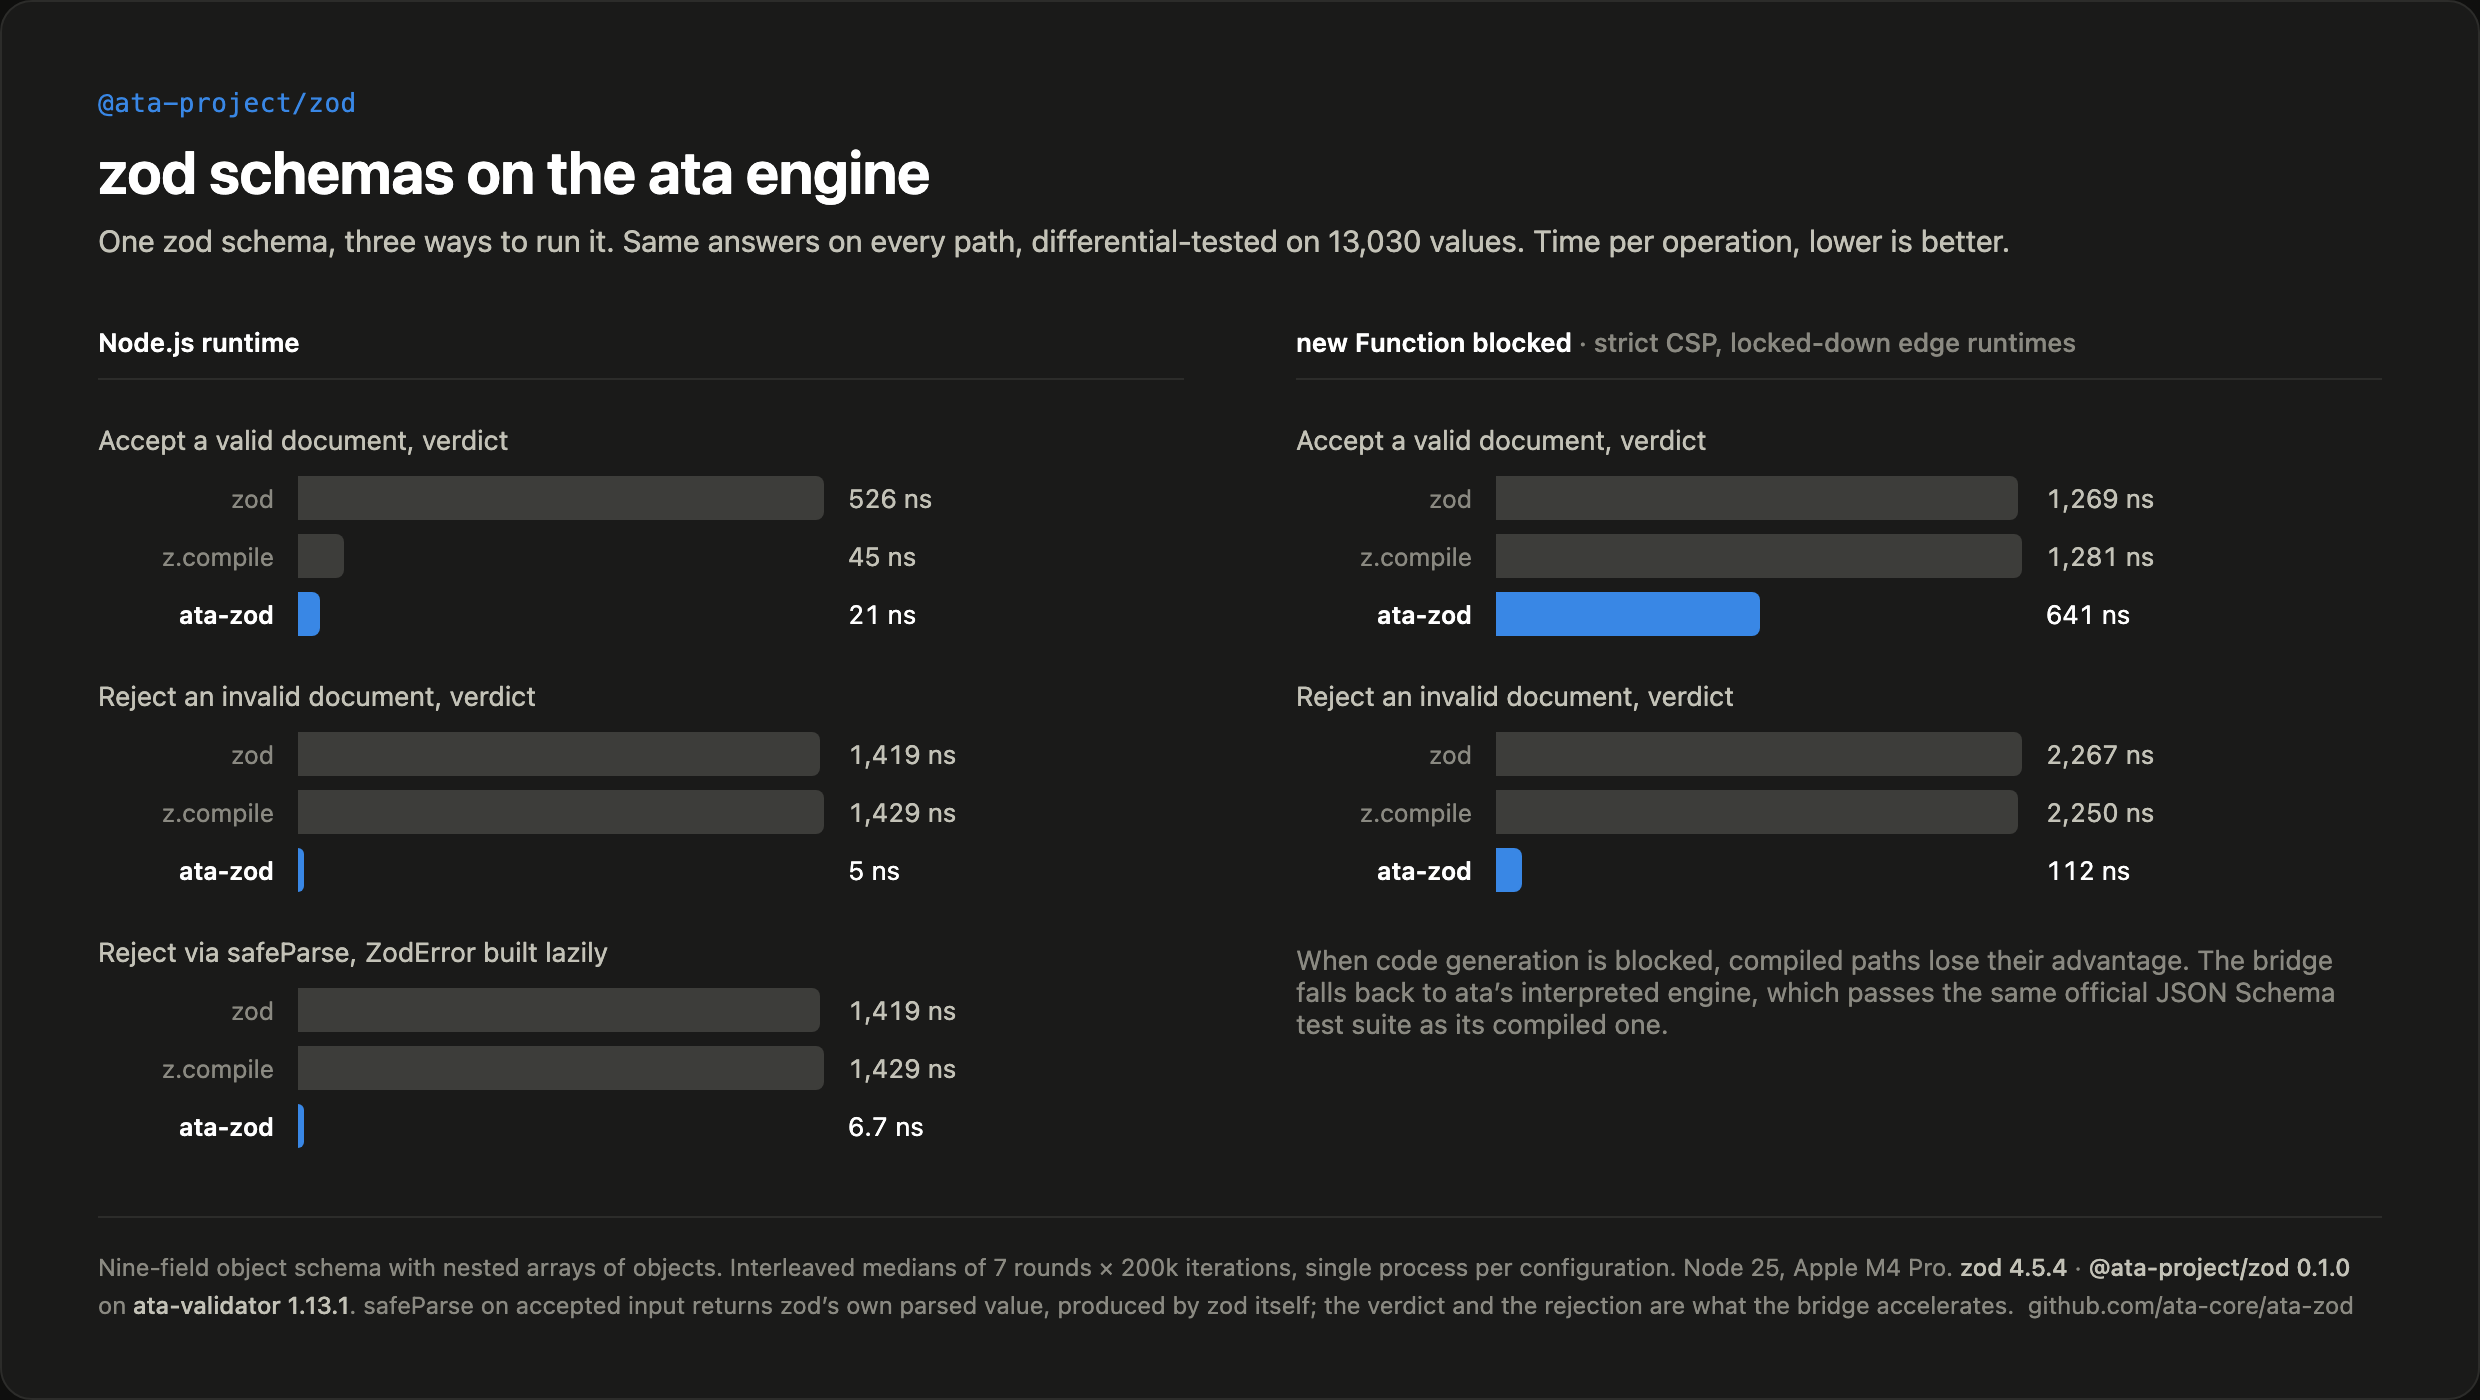
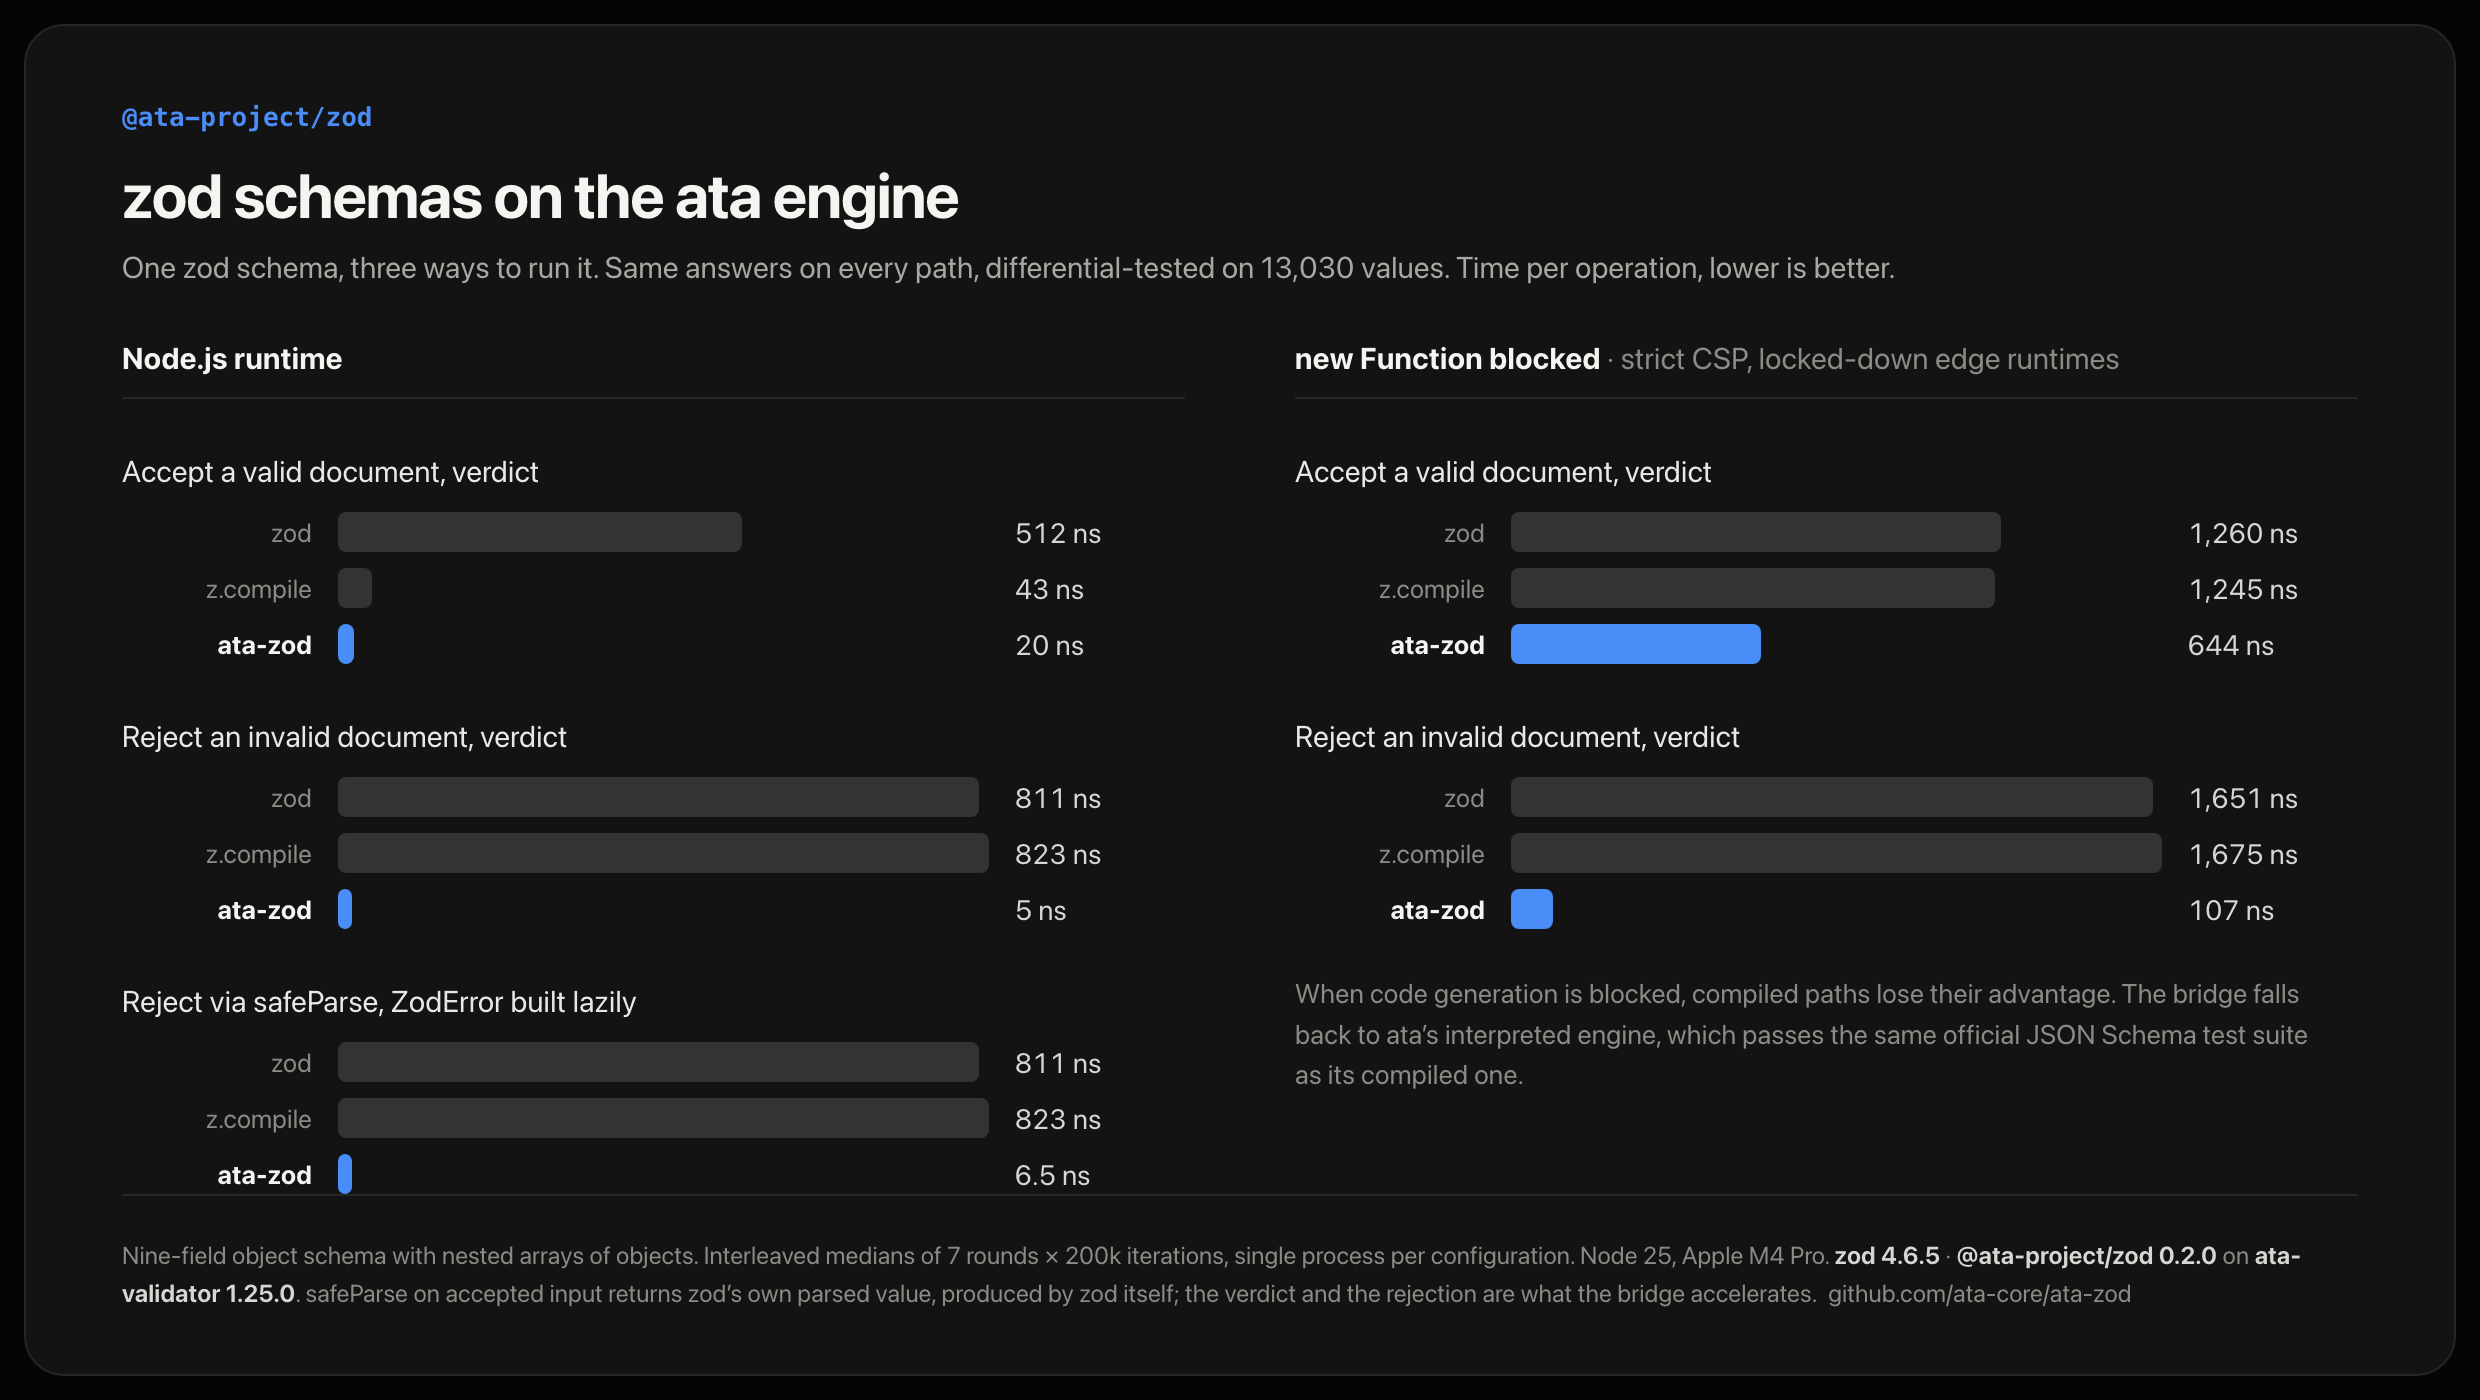
docs: bench remeasured on ata-validator 1.25.0 and zod 4.6.5

diff --git a/README.md b/README.md
@@ -59,14 +59,14 @@ and runs the whole suite a second time with code generation blocked.
 
 One representative API-boundary object schema (nine fields, nested arrays of
 objects, enum, union), interleaved medians of 7 rounds on an M-series Mac,
-Node 25, zod 4.5.4, ata-validator 1.13.1:
+Node 25, zod 4.6.5, ata-validator 1.25.0:
 
 | | zod `safeParse` | `z.compile` | this package |
 |---|---|---|---|
-| accept, verdict only | 526 ns | 45 ns | **21 ns** |
-| reject, verdict only | 1419 ns | 1429 ns | **5 ns** |
-| reject, `safeParse` | 1419 ns | 1429 ns | **6.7 ns** |
-| accept, `safeParse` | 526 ns | 45 ns | 542 ns |
+| accept, verdict only | 512 ns | 43 ns | **20 ns** |
+| reject, verdict only | 811 ns | 823 ns | **5 ns** |
+| reject, `safeParse` | 811 ns | 823 ns | **6.5 ns** |
+| accept, `safeParse` | 512 ns | 43 ns | 518 ns |
 
 The last row is by design, not a gap: an accepted value's output is zod's to
 make. Plain `z.object` strips unknown keys, defaults fill, transforms rewrite,
@@ -80,8 +80,8 @@ runtime blocks it (`node --disallow-code-generation-from-strings`):
 
 | | zod `safeParse` | `z.compile` | this package |
 |---|---|---|---|
-| accept, verdict only | 1269 ns | 1281 ns | **641 ns** |
-| reject, verdict only | 2267 ns | 2250 ns | **112 ns** |
+| accept, verdict only | 1260 ns | 1245 ns | **644 ns** |
+| reject, verdict only | 1651 ns | 1675 ns | **107 ns** |
 
 `z.compile` does not fail there, but its advantage does: it runs at the speed
 of uncompiled zod. ata falls back to its interpreted engine, which passes the
@@ -100,7 +100,8 @@ check.isValidBytes(request.rawBody)   // boolean, straight from the bytes
 
 On an `engine: 'ata'` schema with the native engine present, the verdict comes
 from a SIMD walk of the buffer. The same array-of-objects schema as above,
-interleaved medians of 7 rounds, first element invalid on the reject rows:
+interleaved medians of 7 rounds, first element invalid on the reject rows,
+measured on zod 4.5.4 and ata-validator 1.13.1:
 
 | payload | zod parse + safeParse | `isValidBytes` |
 |---|---|---|
